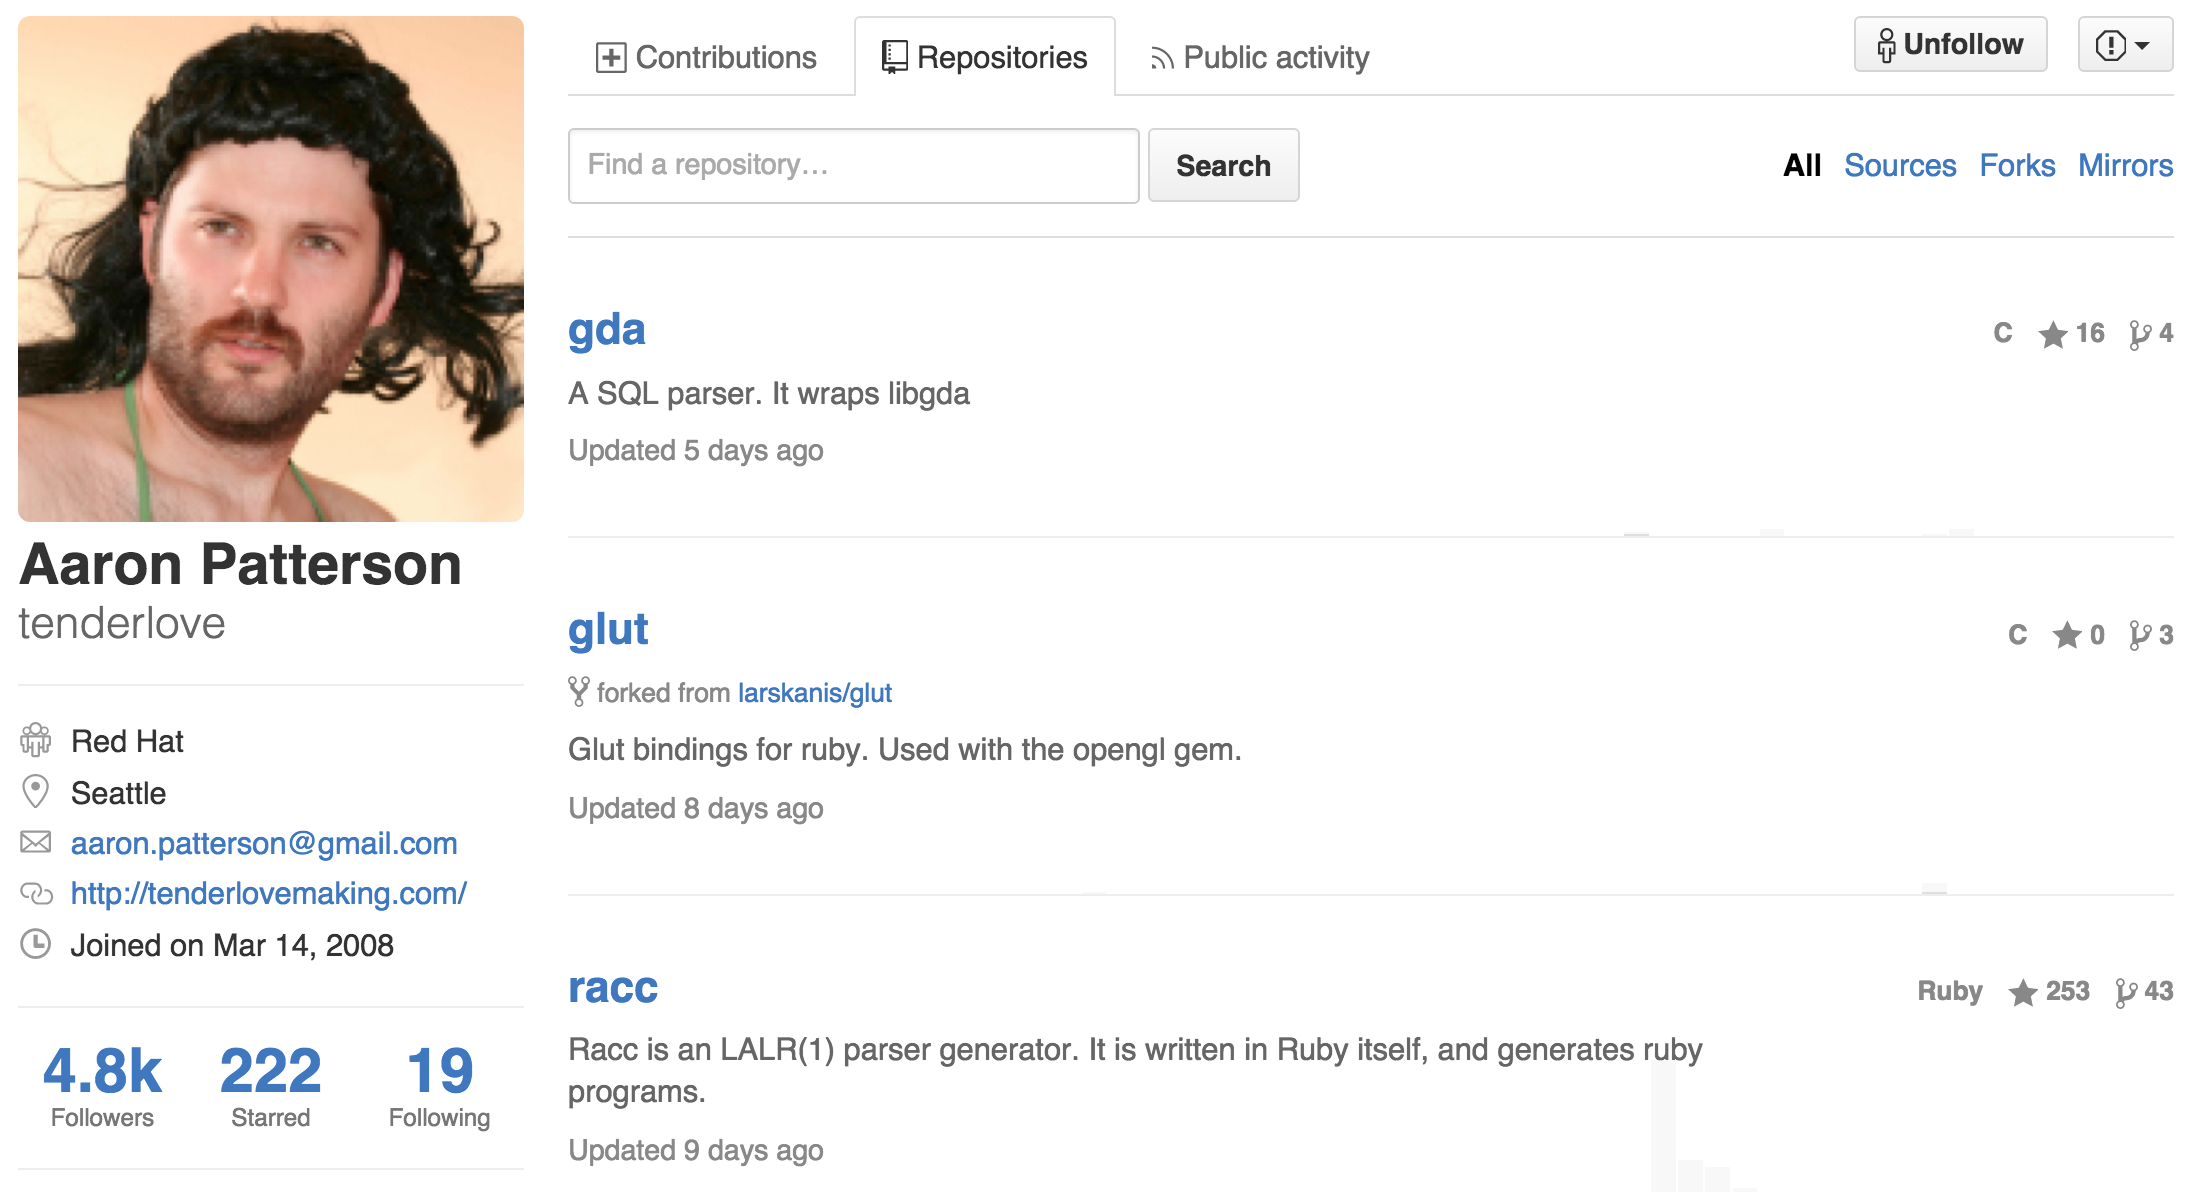
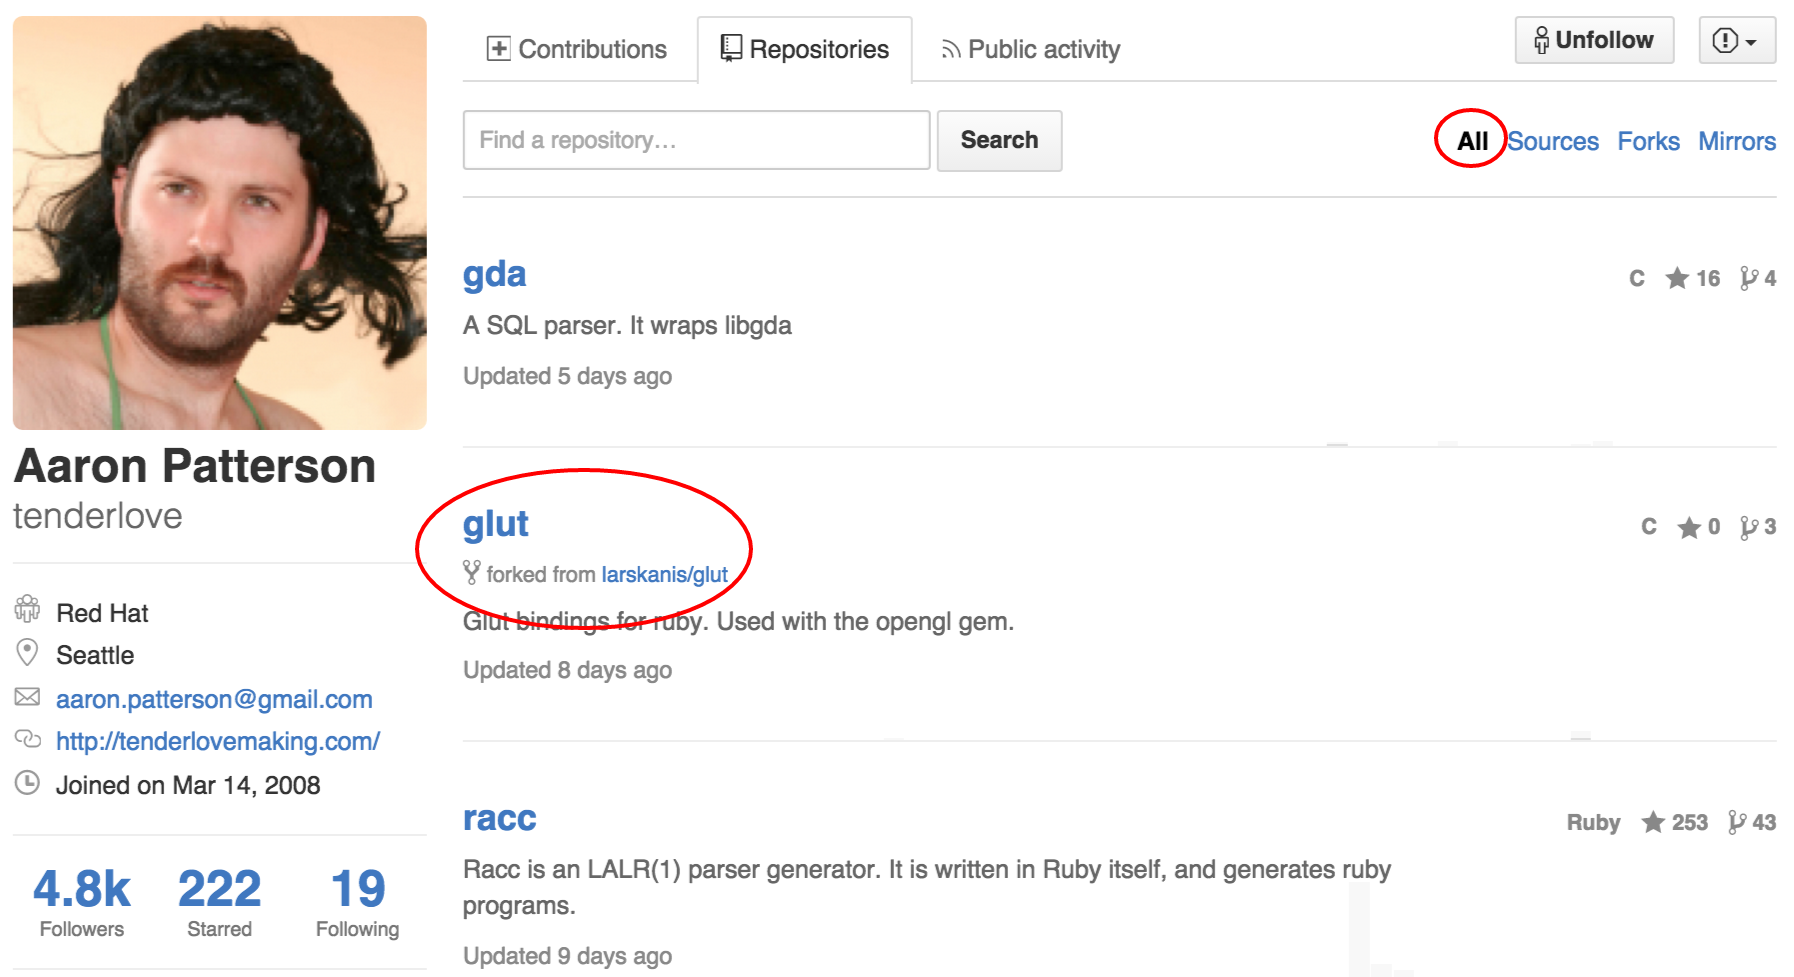
Work on screenshots.

diff --git a/how-to-use-gitHub-to-evaluate-developers.html b/how-to-use-gitHub-to-evaluate-developers.html
@@ -108,7 +108,7 @@
         </section>
 
         <section>
-            <h3>Repositories have issues</h3>
+            <h3>Issues</h3>
             <p class="fragment">Users can discuss and contribute via <em>issues</em></p>
             <p class="fragment">Think of <em>issues</em> as <em>discussion items</em> for</p>
             <ul class="fragment">
@@ -198,7 +198,7 @@
 
         <section>
             <h3>A sample profile</h3>
-            <img data-src="img/tenderlove_profile.png">
+            <img data-src="img/tenderlove_profile_circled.png">
         </section>
 
         <section>
